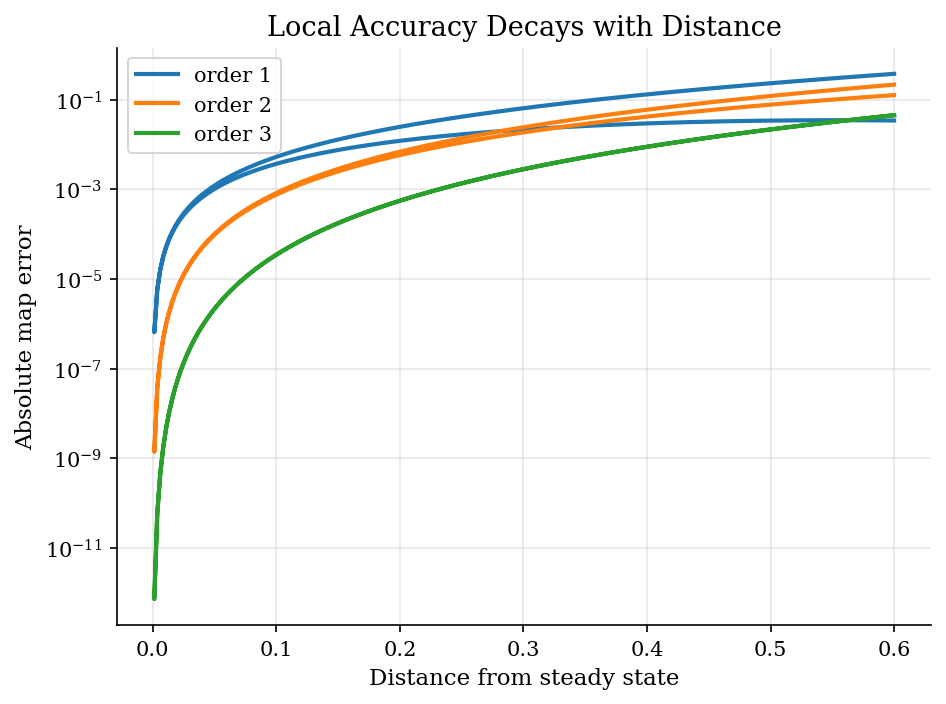
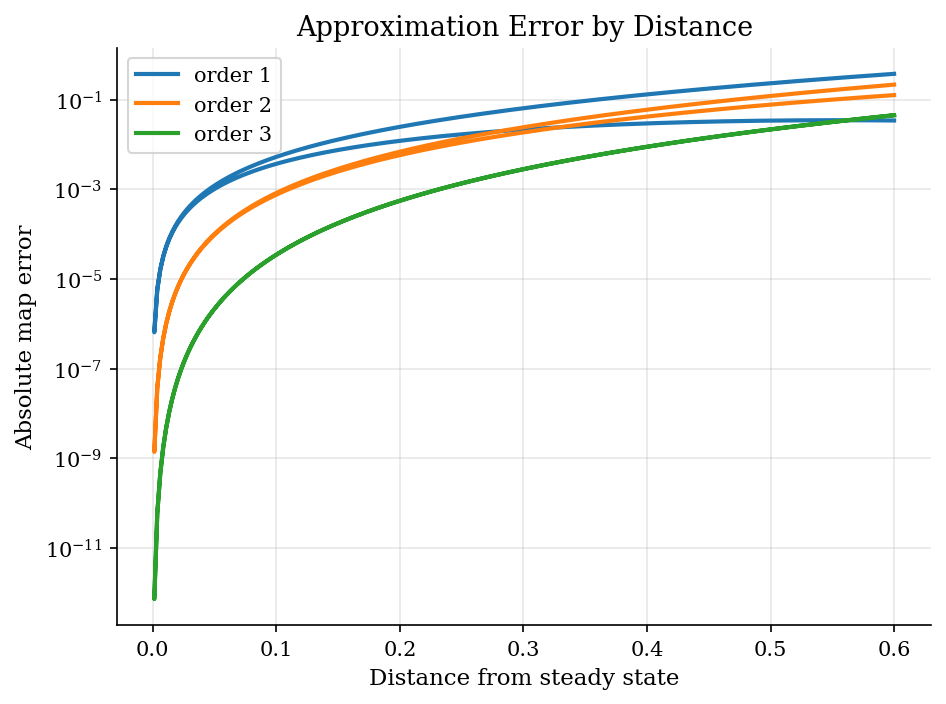
Revise perturbation linearization tutorial

Changed region(s): [[0.2759, 0.0, 0.8277, 0.0625]]

diff --git a/computational-methods/perturbation-linearization/run.py b/computational-methods/perturbation-linearization/run.py
@@ -1,10 +1,9 @@
 #!/usr/bin/env python3
-"""Perturbation around a steady state for nonlinear dynamics.
+"""Perturbation around a macro steady state.
 
-The tutorial compares first-, second-, and third-order local approximations to a
-nonlinear transition rule. It is intentionally small, so the local nature of
-perturbation methods is visible in both approximation errors and impulse
-responses.
+The tutorial compares first-, second-, and third-order local approximations to
+a nonlinear state transition. The example stays small so readers can see how
+local Taylor terms change impulse responses near a steady state.
 """
 
 import sys
@@ -125,34 +124,44 @@ def main() -> None:
     )
 
     report = ModelReport(
-        "Perturbation Around a Steady State",
-        "Local Taylor approximations for nonlinear economic dynamics and impulse responses.",
+        "Aggregate Adjustment Around a Steady State",
+        "Taylor perturbations for nonlinear macro dynamics and impulse responses.",
         include_reproduce=False,
         show_figure_captions=False,
     )
 
     report.add_overview(
-        "Macroeconomic models are often solved near a deterministic steady state. The local "
-        "object is a law of motion for deviations from that point: after a productivity, demand, "
-        "or policy shock, how does the state return toward its steady value? Perturbation "
-        "methods approximate that law of motion with a Taylor expansion.\n\n"
-        "The first-order case is the familiar linearization. It is fast and gives transparent "
-        "impulse responses, but it removes curvature and makes positive and negative shocks "
-        "mirror images. Higher-order perturbations add curvature and asymmetry while remaining "
-        "local. The exact nonlinear transition rule is kept available below so the cost of that "
-        "locality is visible."
+        "A macro model often asks what happens after an economy is pushed away from its "
+        "steady state. Think of a productivity surprise, a demand shock, or a policy change "
+        "that moves a state variable above its normal level. The researcher wants the path "
+        "back to steady state and wants to know whether an equally sized negative shock would "
+        "unwind in the same way.\n\n"
+        "The hard part is that the full nonlinear law of motion may be expensive to solve or "
+        "awkward to interpret. Perturbation replaces that law with a Taylor approximation near "
+        "the steady state. First order gives the familiar linearized impulse response. Higher "
+        "orders keep local curvature, so positive and negative shocks can produce different "
+        "adjustment paths. This tutorial keeps the exact nonlinear transition in view, which "
+        "lets us see what the local approximation gains and what it misses."
     )
 
     report.add_equations(
         r"""
-Let $x_t$ be a scalar deviation from the deterministic steady state, normalized
-so that $x=0$ is the steady state. The exact transition rule is:
+Let $x_t$ be a scalar deviation from the deterministic steady state. The
+steady state is normalized to $x=0$. The exact nonlinear transition is:
 
 $$
 F(x) = \rho x + \gamma x^2 - \eta x^3 + \kappa x^4.
 $$
 
-The first three perturbation approximations around zero are:
+The coefficients are chosen to create persistent adjustment, local curvature,
+and asymmetric responses. A Taylor perturbation of order $n$ around zero keeps
+the derivatives through order $n$:
+
+$$
+F_n(x) = \sum_{j=1}^{n} \frac{F^{(j)}(0)}{j!} x^j.
+$$
+
+For the first three orders in this example:
 
 $$
 \begin{aligned}
@@ -173,32 +182,34 @@ $$
     report.add_model_setup(
         "| Object | Value |\n"
         "|--------|-------|\n"
-        f"| Persistence $\\rho$ | {RHO:.2f} |\n"
-        f"| Quadratic term $\\gamma$ | {GAMMA:.2f} |\n"
-        f"| Cubic term $\\eta$ | {ETA:.2f} |\n"
-        f"| Fourth-order term $\\kappa$ | {KAPPA:.2f} |\n"
-        f"| Shock size | {SHOCK_SIZE:.2f} |\n"
+        f"| Persistence $\\rho$ | {RHO:.2f}, so deviations decay gradually |\n"
+        f"| Quadratic term $\\gamma$ | {GAMMA:.2f}, adding local curvature |\n"
+        f"| Cubic term $\\eta$ | {ETA:.2f}, changing the speed of large responses |\n"
+        f"| Fourth-order term $\\kappa$ | {KAPPA:.2f}, left out by third order |\n"
+        f"| Shock size | {SHOCK_SIZE:.2f} in either direction |\n"
         f"| IRF periods | {periods} |"
     )
 
     report.add_solution_method(
-        "The exercise treats the exact transition rule as a known benchmark, then truncates its "
-        "Taylor expansion at different orders. Errors are measured both pointwise and after "
-        "iterating the approximated law of motion forward.\n\n"
+        "The calculation treats the exact transition as a benchmark and asks how much of it a "
+        "local expansion recovers. The map error answers a numerical question: how close is the "
+        "approximated law of motion at nearby states? The impulse-response error answers the "
+        "economic question the researcher would usually care about: does the computed shock "
+        "path tell the same adjustment story as the nonlinear model?\n\n"
         "```text\n"
-        "Algorithm: local perturbation diagnostic\n"
-        "Input: exact law F(x), steady state x_bar = 0, approximation order n, shock epsilon\n"
-        "Output: local map errors, impulse-response errors, asymmetry diagnostic\n"
-        "1. Compute the Taylor coefficients of F around x_bar through order n\n"
-        "2. Define F_n(x) as the truncated local law of motion\n"
-        "3. Compare F_n(x) with F(x) on a local and a wider state interval\n"
-        "4. For x_0 = epsilon, iterate x_{t+1} = F_n(x_t) and compare with the exact path\n"
-        "5. Repeat for x_0 = -epsilon to check whether positive and negative shocks mirror\n"
-        "6. Interpret large errors as a warning about states far from the expansion point\n"
+        "Algorithm: perturbation check for a shock response\n"
+        "Input: nonlinear law F(x), steady state x_bar = 0, order n, shock epsilon\n"
+        "Output: approximate law F_n, map errors, IRF errors, asymmetry statistic\n"
+        "1. Differentiate F at x_bar and keep terms through order n\n"
+        "2. Build the local law F_n(x) from those Taylor coefficients\n"
+        "3. Compare F_n(x) with F(x) on a tight neighborhood and a wider interval\n"
+        "4. Starting from x_0 = epsilon, iterate x_{t+1} = F_n(x_t)\n"
+        "5. Repeat from x_0 = -epsilon and add the two response paths\n"
+        "6. Read nonzero sums as nonlinear asymmetry, not as linear adjustment\n"
         "```\n\n"
-        "This is the same logic used in larger DSGE applications: solve around a steady state, "
-        "then ask whether the local approximation is accurate enough for the shocks and states "
-        "the research question actually visits."
+        "Large DSGE systems apply the same idea to a vector of equilibrium conditions. This "
+        "scalar example strips that machinery away, leaving the main discipline: a local "
+        "solution is useful only for the shocks and states that stay near the expansion point."
     )
 
     fig1, ax1 = plt.subplots()
@@ -210,15 +221,15 @@ $$
     ax1.axvline(0.0, color="black", linewidth=0.8, alpha=0.5)
     ax1.set_xlabel("State x")
     ax1.set_ylabel("Next state")
-    ax1.set_title("Exact Nonlinear Map and Local Approximations")
+    ax1.set_title("Adjustment Map Near the Steady State")
     ax1.legend()
     report.add_figure(
         "figures/local-approximations.png",
         "Taylor approximations around the steady state",
         fig1,
         description=(
-            "All approximations agree at the steady state. Differences grow as the state moves "
-            "away from the expansion point."
+            "The curves agree at the steady state because each approximation is built there. "
+            "Away from zero, the missing curvature changes the next-period state."
         ),
     )
 
@@ -228,15 +239,16 @@ $$
         ax2.semilogy(np.abs(x_grid), np.maximum(error, 1e-14), label=f"order {order}")
     ax2.set_xlabel("Distance from steady state")
     ax2.set_ylabel("Absolute map error")
-    ax2.set_title("Local Accuracy Decays with Distance")
+    ax2.set_title("Approximation Error by Distance")
     ax2.legend()
     report.add_figure(
         "figures/local-errors.png",
         "Approximation error by distance from the expansion point",
         fig2,
         description=(
-            "Higher-order terms reduce local error, but no finite Taylor expansion is a global "
-            "solution. The question that matters is how far the model travels from the steady state."
+            "Higher-order terms lower error near the steady state. Error still rises with "
+            "distance, so the relevant accuracy check depends on the states reached by the "
+            "shock experiment."
         ),
     )
 
@@ -265,8 +277,8 @@ $$
         "Impulse responses under exact and approximated dynamics",
         fig3,
         description=(
-            "The first-order approximation is symmetric: changing the sign of the shock changes "
-            "only the sign of the response. Higher-order terms can capture asymmetric adjustment."
+            "The first-order path is symmetric by construction. Higher-order paths can let a "
+            "positive shock and a negative shock unwind at different speeds."
         ),
     )
 
@@ -285,8 +297,8 @@ $$
         "Nonlinear asymmetry in positive and negative responses",
         fig4,
         description=(
-            "For a purely linear model, positive and negative impulse responses cancel exactly. "
-            "A nonzero sum is a direct diagnostic for nonlinear asymmetry."
+            "In a linearized model, the positive and negative impulse responses cancel exactly. "
+            "A nonzero sum shows how much nonlinear asymmetry the local solution preserves."
         ),
     )
 
@@ -294,23 +306,26 @@ $$
         "tables/approximation-errors.csv",
         "Perturbation accuracy by order",
         format_table(table),
-        description="Map errors are computed directly; IRF errors compare each approximation to the exact path.",
+        description=(
+            "Map errors compare transition rules. IRF errors compare the full adjustment path "
+            "after the same shock."
+        ),
     )
 
     report.add_results(
-        "The first-order approximation is accurate very close to the steady state, but it misses "
-        "curvature and asymmetric responses. The second and third orders reduce local error and "
-        "track the nonlinear impulse responses more closely for the shock size used here. The "
-        "asymmetry plot is the clearest economic diagnostic: a linearized model forces the "
-        "positive and negative responses to cancel, even when the nonlinear economy does not."
+        "The first-order approximation works well in a tight neighborhood of the steady state, "
+        "but it misses the curvature that shapes asymmetric adjustment. Second and third order "
+        "terms reduce local map error and follow the nonlinear impulse responses more closely "
+        "for this shock size. The asymmetry plot gives the most direct economic reading: the "
+        "linearized model forces the positive and negative responses to cancel, while the "
+        "nonlinear economy does not."
     )
 
     report.add_takeaway(
-        "Linearization is often enough for small deviations, but its symmetry is a substantive "
+        "Linearization is often enough for small deviations, but its symmetry is an economic "
         "restriction. Higher-order perturbation adds curvature without solving the full global "
-        "model. The practical discipline is to check where the simulated or impulse-response "
-        "path actually goes. Local approximations are only as credible as the neighborhood they "
-        "are asked to cover."
+        "model. The practical check is simple: trace the simulated or impulse-response path and "
+        "ask whether it remains in the neighborhood where the local approximation is accurate."
     )
 
     report.add_references(

diff --git a/computational-methods/perturbation-linearization/README.md b/computational-methods/perturbation-linearization/README.md
@@ -1,23 +1,31 @@
-# Perturbation Around a Steady State
+# Aggregate Adjustment Around a Steady State
 
-> Local Taylor approximations for nonlinear economic dynamics and impulse responses.
+> Taylor perturbations for nonlinear macro dynamics and impulse responses.
 
 ## Overview
 
-Macroeconomic models are often solved near a deterministic steady state. The local object is a law of motion for deviations from that point: after a productivity, demand, or policy shock, how does the state return toward its steady value? Perturbation methods approximate that law of motion with a Taylor expansion.
+A macro model often asks what happens after an economy is pushed away from its steady state. Think of a productivity surprise, a demand shock, or a policy change that moves a state variable above its normal level. The researcher wants the path back to steady state and wants to know whether an equally sized negative shock would unwind in the same way.
 
-The first-order case is the familiar linearization. It is fast and gives transparent impulse responses, but it removes curvature and makes positive and negative shocks mirror images. Higher-order perturbations add curvature and asymmetry while remaining local. The exact nonlinear transition rule is kept available below so the cost of that locality is visible.
+The hard part is that the full nonlinear law of motion may be expensive to solve or awkward to interpret. Perturbation replaces that law with a Taylor approximation near the steady state. First order gives the familiar linearized impulse response. Higher orders keep local curvature, so positive and negative shocks can produce different adjustment paths. This tutorial keeps the exact nonlinear transition in view, which lets us see what the local approximation gains and what it misses.
 
 ## Equations
 
-Let $x_t$ be a scalar deviation from the deterministic steady state, normalized
-so that $x=0$ is the steady state. The exact transition rule is:
+Let $x_t$ be a scalar deviation from the deterministic steady state. The
+steady state is normalized to $x=0$. The exact nonlinear transition is:
 
 $$
 F(x) = \rho x + \gamma x^2 - \eta x^3 + \kappa x^4.
 $$
 
-The first three perturbation approximations around zero are:
+The coefficients are chosen to create persistent adjustment, local curvature,
+and asymmetric responses. A Taylor perturbation of order $n$ around zero keeps
+the derivatives through order $n$:
+
+$$
+F_n(x) = \sum_{j=1}^{n} \frac{F^{(j)}(0)}{j!} x^j.
+$$
+
+For the first three orders in this example:
 
 $$
 \begin{aligned}
@@ -37,50 +45,50 @@ $$
 
 | Object | Value |
 |--------|-------|
-| Persistence $\rho$ | 0.82 |
-| Quadratic term $\gamma$ | 0.45 |
-| Cubic term $\eta$ | 0.80 |
-| Fourth-order term $\kappa$ | 0.35 |
-| Shock size | 0.18 |
+| Persistence $\rho$ | 0.82, so deviations decay gradually |
+| Quadratic term $\gamma$ | 0.45, adding local curvature |
+| Cubic term $\eta$ | 0.80, changing the speed of large responses |
+| Fourth-order term $\kappa$ | 0.35, left out by third order |
+| Shock size | 0.18 in either direction |
 | IRF periods | 28 |
 
 ## Solution Method
 
-The exercise treats the exact transition rule as a known benchmark, then truncates its Taylor expansion at different orders. Errors are measured both pointwise and after iterating the approximated law of motion forward.
+The calculation treats the exact transition as a benchmark and asks how much of it a local expansion recovers. The map error answers a numerical question: how close is the approximated law of motion at nearby states? The impulse-response error answers the economic question the researcher would usually care about: does the computed shock path tell the same adjustment story as the nonlinear model?
 
 ```text
-Algorithm: local perturbation diagnostic
-Input: exact law F(x), steady state x_bar = 0, approximation order n, shock epsilon
-Output: local map errors, impulse-response errors, asymmetry diagnostic
-1. Compute the Taylor coefficients of F around x_bar through order n
-2. Define F_n(x) as the truncated local law of motion
-3. Compare F_n(x) with F(x) on a local and a wider state interval
-4. For x_0 = epsilon, iterate x_{t+1} = F_n(x_t) and compare with the exact path
-5. Repeat for x_0 = -epsilon to check whether positive and negative shocks mirror
-6. Interpret large errors as a warning about states far from the expansion point
+Algorithm: perturbation check for a shock response
+Input: nonlinear law F(x), steady state x_bar = 0, order n, shock epsilon
+Output: approximate law F_n, map errors, IRF errors, asymmetry statistic
+1. Differentiate F at x_bar and keep terms through order n
+2. Build the local law F_n(x) from those Taylor coefficients
+3. Compare F_n(x) with F(x) on a tight neighborhood and a wider interval
+4. Starting from x_0 = epsilon, iterate x_{t+1} = F_n(x_t)
+5. Repeat from x_0 = -epsilon and add the two response paths
+6. Read nonzero sums as nonlinear asymmetry, not as linear adjustment
 ```
 
-This is the same logic used in larger DSGE applications: solve around a steady state, then ask whether the local approximation is accurate enough for the shocks and states the research question actually visits.
+Large DSGE systems apply the same idea to a vector of equilibrium conditions. This scalar example strips that machinery away, leaving the main discipline: a local solution is useful only for the shocks and states that stay near the expansion point.
 
 ## Results
 
-All approximations agree at the steady state. Differences grow as the state moves away from the expansion point.
+The curves agree at the steady state because each approximation is built there. Away from zero, the missing curvature changes the next-period state.
 
 <img src="figures/local-approximations.png" alt="Taylor approximations around the steady state" width="80%">
 
-Higher-order terms reduce local error, but no finite Taylor expansion is a global solution. The question that matters is how far the model travels from the steady state.
+Higher-order terms lower error near the steady state. Error still rises with distance, so the relevant accuracy check depends on the states reached by the shock experiment.
 
 <img src="figures/local-errors.png" alt="Approximation error by distance from the expansion point" width="80%">
 
-The first-order approximation is symmetric: changing the sign of the shock changes only the sign of the response. Higher-order terms can capture asymmetric adjustment.
+The first-order path is symmetric by construction. Higher-order paths can let a positive shock and a negative shock unwind at different speeds.
 
 <img src="figures/impulse-responses.png" alt="Impulse responses under exact and approximated dynamics" width="80%">
 
-For a purely linear model, positive and negative impulse responses cancel exactly. A nonzero sum is a direct diagnostic for nonlinear asymmetry.
+In a linearized model, the positive and negative impulse responses cancel exactly. A nonzero sum shows how much nonlinear asymmetry the local solution preserves.
 
 <img src="figures/asymmetry.png" alt="Nonlinear asymmetry in positive and negative responses" width="80%">
 
-Map errors are computed directly; IRF errors compare each approximation to the exact path.
+Map errors compare transition rules. IRF errors compare the full adjustment path after the same shock.
 
 **Perturbation accuracy by order**
 
@@ -93,11 +101,11 @@ Map errors are computed directly; IRF errors compare each approximation to the e
 |       3 | local abs(x) <= 0.20 |        0.000542 |           3.47e-05 |            0.000315 |            0.000125 |
 |       3 | wide abs(x) <= 0.60  |        0.0454   |           0.00286  |            0.000315 |            0.000125 |
 
-The first-order approximation is accurate very close to the steady state, but it misses curvature and asymmetric responses. The second and third orders reduce local error and track the nonlinear impulse responses more closely for the shock size used here. The asymmetry plot is the clearest economic diagnostic: a linearized model forces the positive and negative responses to cancel, even when the nonlinear economy does not.
+The first-order approximation works well in a tight neighborhood of the steady state, but it misses the curvature that shapes asymmetric adjustment. Second and third order terms reduce local map error and follow the nonlinear impulse responses more closely for this shock size. The asymmetry plot gives the most direct economic reading: the linearized model forces the positive and negative responses to cancel, while the nonlinear economy does not.
 
 ## Takeaway
 
-Linearization is often enough for small deviations, but its symmetry is a substantive restriction. Higher-order perturbation adds curvature without solving the full global model. The practical discipline is to check where the simulated or impulse-response path actually goes. Local approximations are only as credible as the neighborhood they are asked to cover.
+Linearization is often enough for small deviations, but its symmetry is an economic restriction. Higher-order perturbation adds curvature without solving the full global model. The practical check is simple: trace the simulated or impulse-response path and ask whether it remains in the neighborhood where the local approximation is accurate.
 
 ## References
 

diff --git a/README.md b/README.md
@@ -157,7 +157,7 @@ These tutorials are standalone references for optimization, approximation, simul
 | [<img src="computational-methods/numerical-optimization/figures/thumb.png" width="160">](computational-methods/numerical-optimization/figures/optimizer-paths.png) | **[Latent-Regime Likelihoods and Optimizer Basins](computational-methods/numerical-optimization/)** | Estimate parameters in a latent-regime likelihood where two regions fit the data. Multi-start local optimization and global search show when a reported estimate depends on the likelihood basin. |
 | [<img src="computational-methods/simulation-based-estimation/figures/thumb.png" width="160">](computational-methods/simulation-based-estimation/figures/criterion-surfaces.png) | **[Estimating a Search Acceptance Rule by Simulation](computational-methods/simulation-based-estimation/)** | Estimate a reservation-wage rule from wage offers and worker acceptances. MSM matches economic moments, while indirect inference matches an auxiliary acceptance model. |
 | [<img src="computational-methods/projection-methods/figures/thumb.png" width="160">](computational-methods/projection-methods/figures/chebyshev-basis.png) | **[Growth-Model Capital Policy by Chebyshev Projection](computational-methods/projection-methods/)** | Study the planner's capital-saving rule in a deterministic growth model. Chebyshev collocation stores the smooth policy in a few coefficients, and Euler residuals check the fit between nodes. |
-| [<img src="computational-methods/perturbation-linearization/figures/thumb.png" width="160">](computational-methods/perturbation-linearization/figures/local-approximations.png) | **[Perturbation Around a Steady State](computational-methods/perturbation-linearization/)** | Linearize nonlinear dynamics near a steady state. Higher-order terms show where curvature and asymmetric responses start to matter. |
+| [<img src="computational-methods/perturbation-linearization/figures/thumb.png" width="160">](computational-methods/perturbation-linearization/figures/local-approximations.png) | **[Aggregate Adjustment Around a Steady State](computational-methods/perturbation-linearization/)** | Study how a state variable returns after positive and negative macro shocks. Taylor perturbations approximate the nonlinear law of motion and show when curvature changes impulse responses. |
 | [<img src="computational-methods/metropolis-hastings/figures/thumb.png" width="160">](computational-methods/metropolis-hastings/figures/mh-walk.png) | **[Metropolis-Hastings for a Bimodal Posterior](computational-methods/metropolis-hastings/)** | Diagnose how a finite MCMC run explores a two-mode posterior. Proposal tuning changes acceptance, mode switching, and effective sample size. |
 | [<img src="computational-methods/kalman-filter/figures/thumb.png" width="160">](computational-methods/kalman-filter/figures/simulated-signal.png) | **[Kalman Filtering a Latent Economic State](computational-methods/kalman-filter/)** | Filter a latent economic state from noisy signals. Prediction errors update the state estimate, uncertainty, and likelihood together. |
 | [<img src="computational-methods/particle-filter/figures/thumb.png" width="160">](computational-methods/particle-filter/figures/filter-comparison.png) | **[Particle Filtering Latent Economic States](computational-methods/particle-filter/)** | Approximate latent-state filtering with weighted simulated particles. Proposal choices drive weight collapse and Monte Carlo error. |
